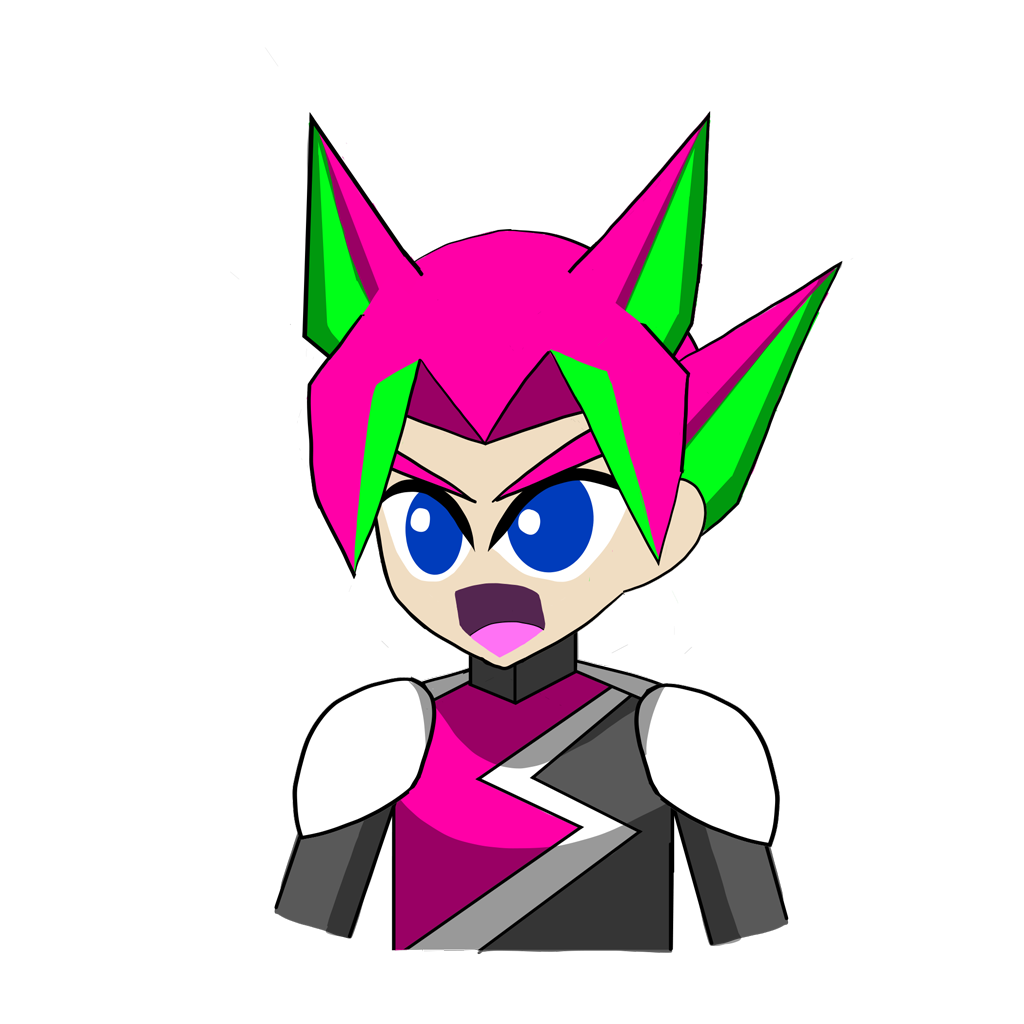
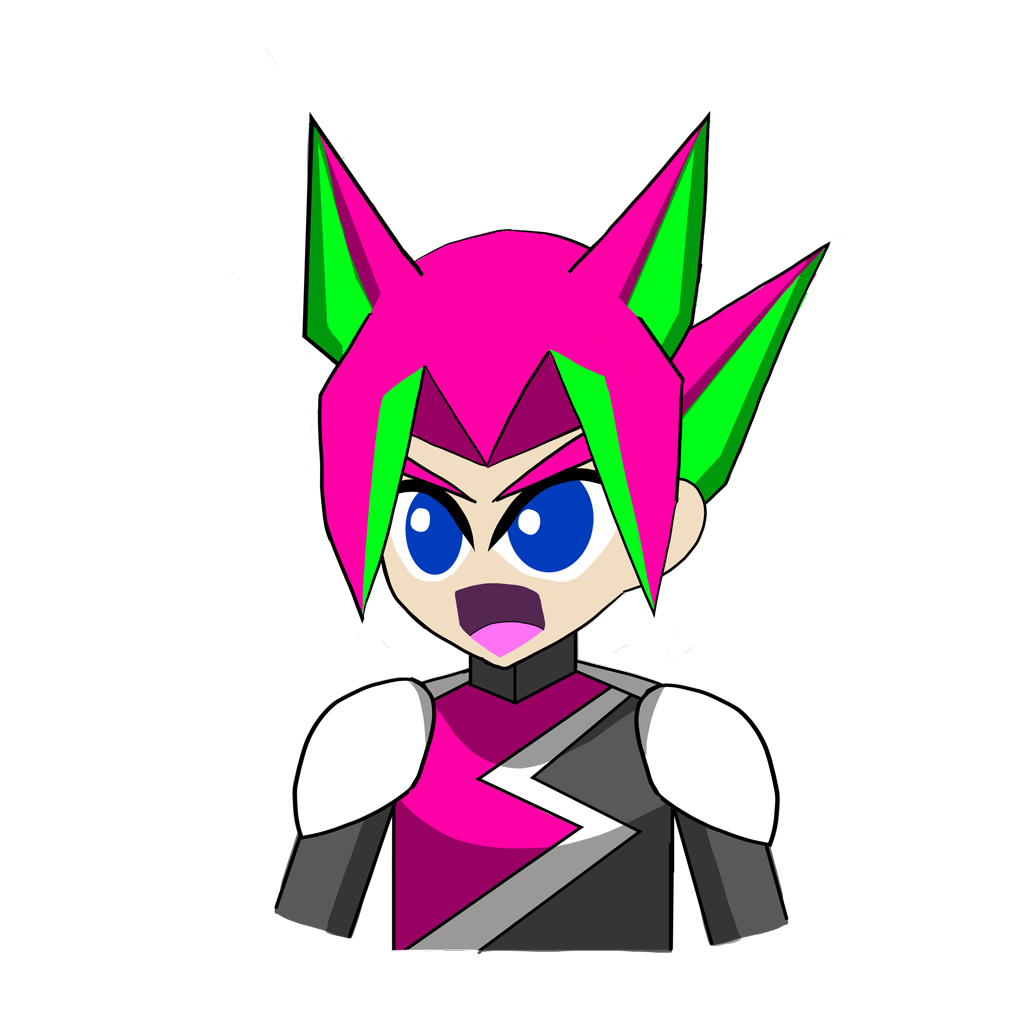
ライトの前髪を大型化した

Changed region(s): [[0.2812, 0.2812, 0.6562, 0.5938], [0.625, 0.2188, 0.8438, 0.5312], [0.5938, 0.2812, 0.625, 0.3125]]

diff --git a/src/js/game-object/cut-in/raito/view/player-raito-view.js b/src/js/game-object/cut-in/raito/view/player-raito-view.js
@@ -13,7 +13,7 @@ import {HUD_CUT_IN_ZNIDEX} from "../../../../zindex/hud-zindex";
 /**
  * メッシュの大きさ
  */
-export const MESH_SIZE = 450;
+export const MESH_SIZE = 550;
 
 /**
  * アニメーション数
@@ -60,7 +60,7 @@ export class PlayerRaitoView implements RaitoView {
     this._mesh.getObject3D().scale.set(scale, scale, scale);
     this._mesh.getObject3D().position.set(
       model.tracking.x,
-      model.tracking.y - 30 + scale,
+      model.tracking.y,
       HUD_CUT_IN_ZNIDEX
     );
     this._mesh.setOpacity(model.opacity);
